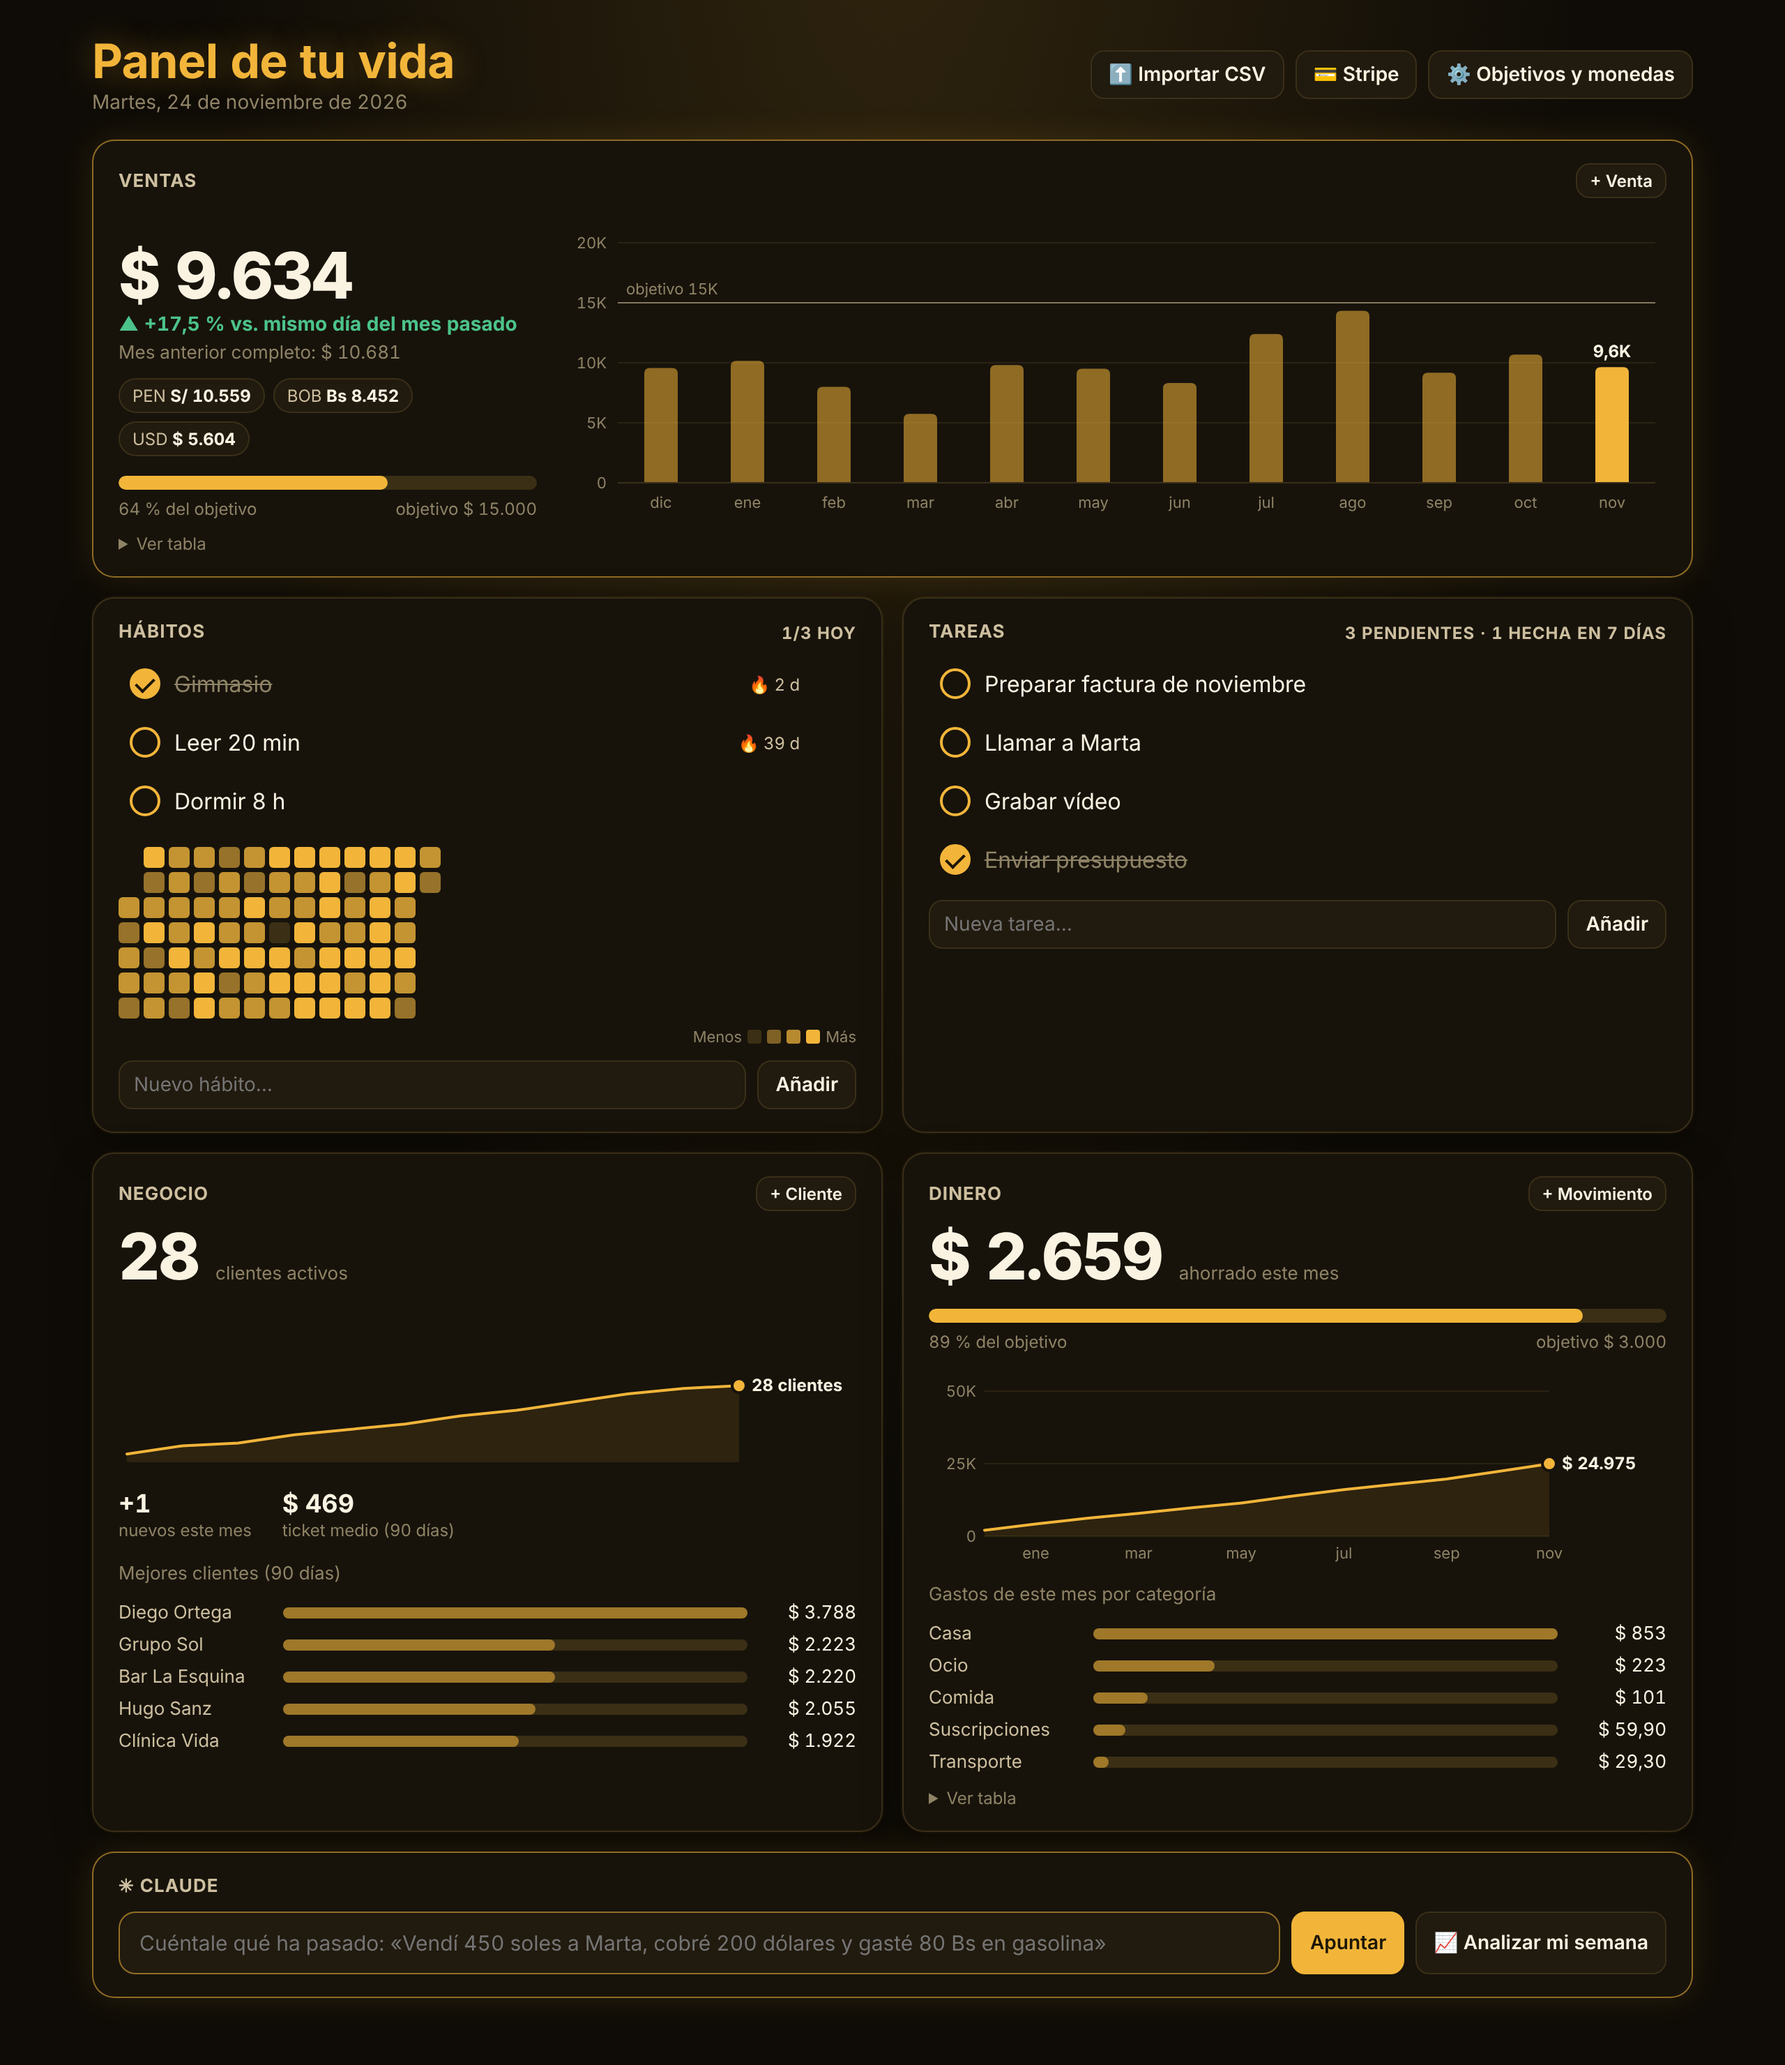
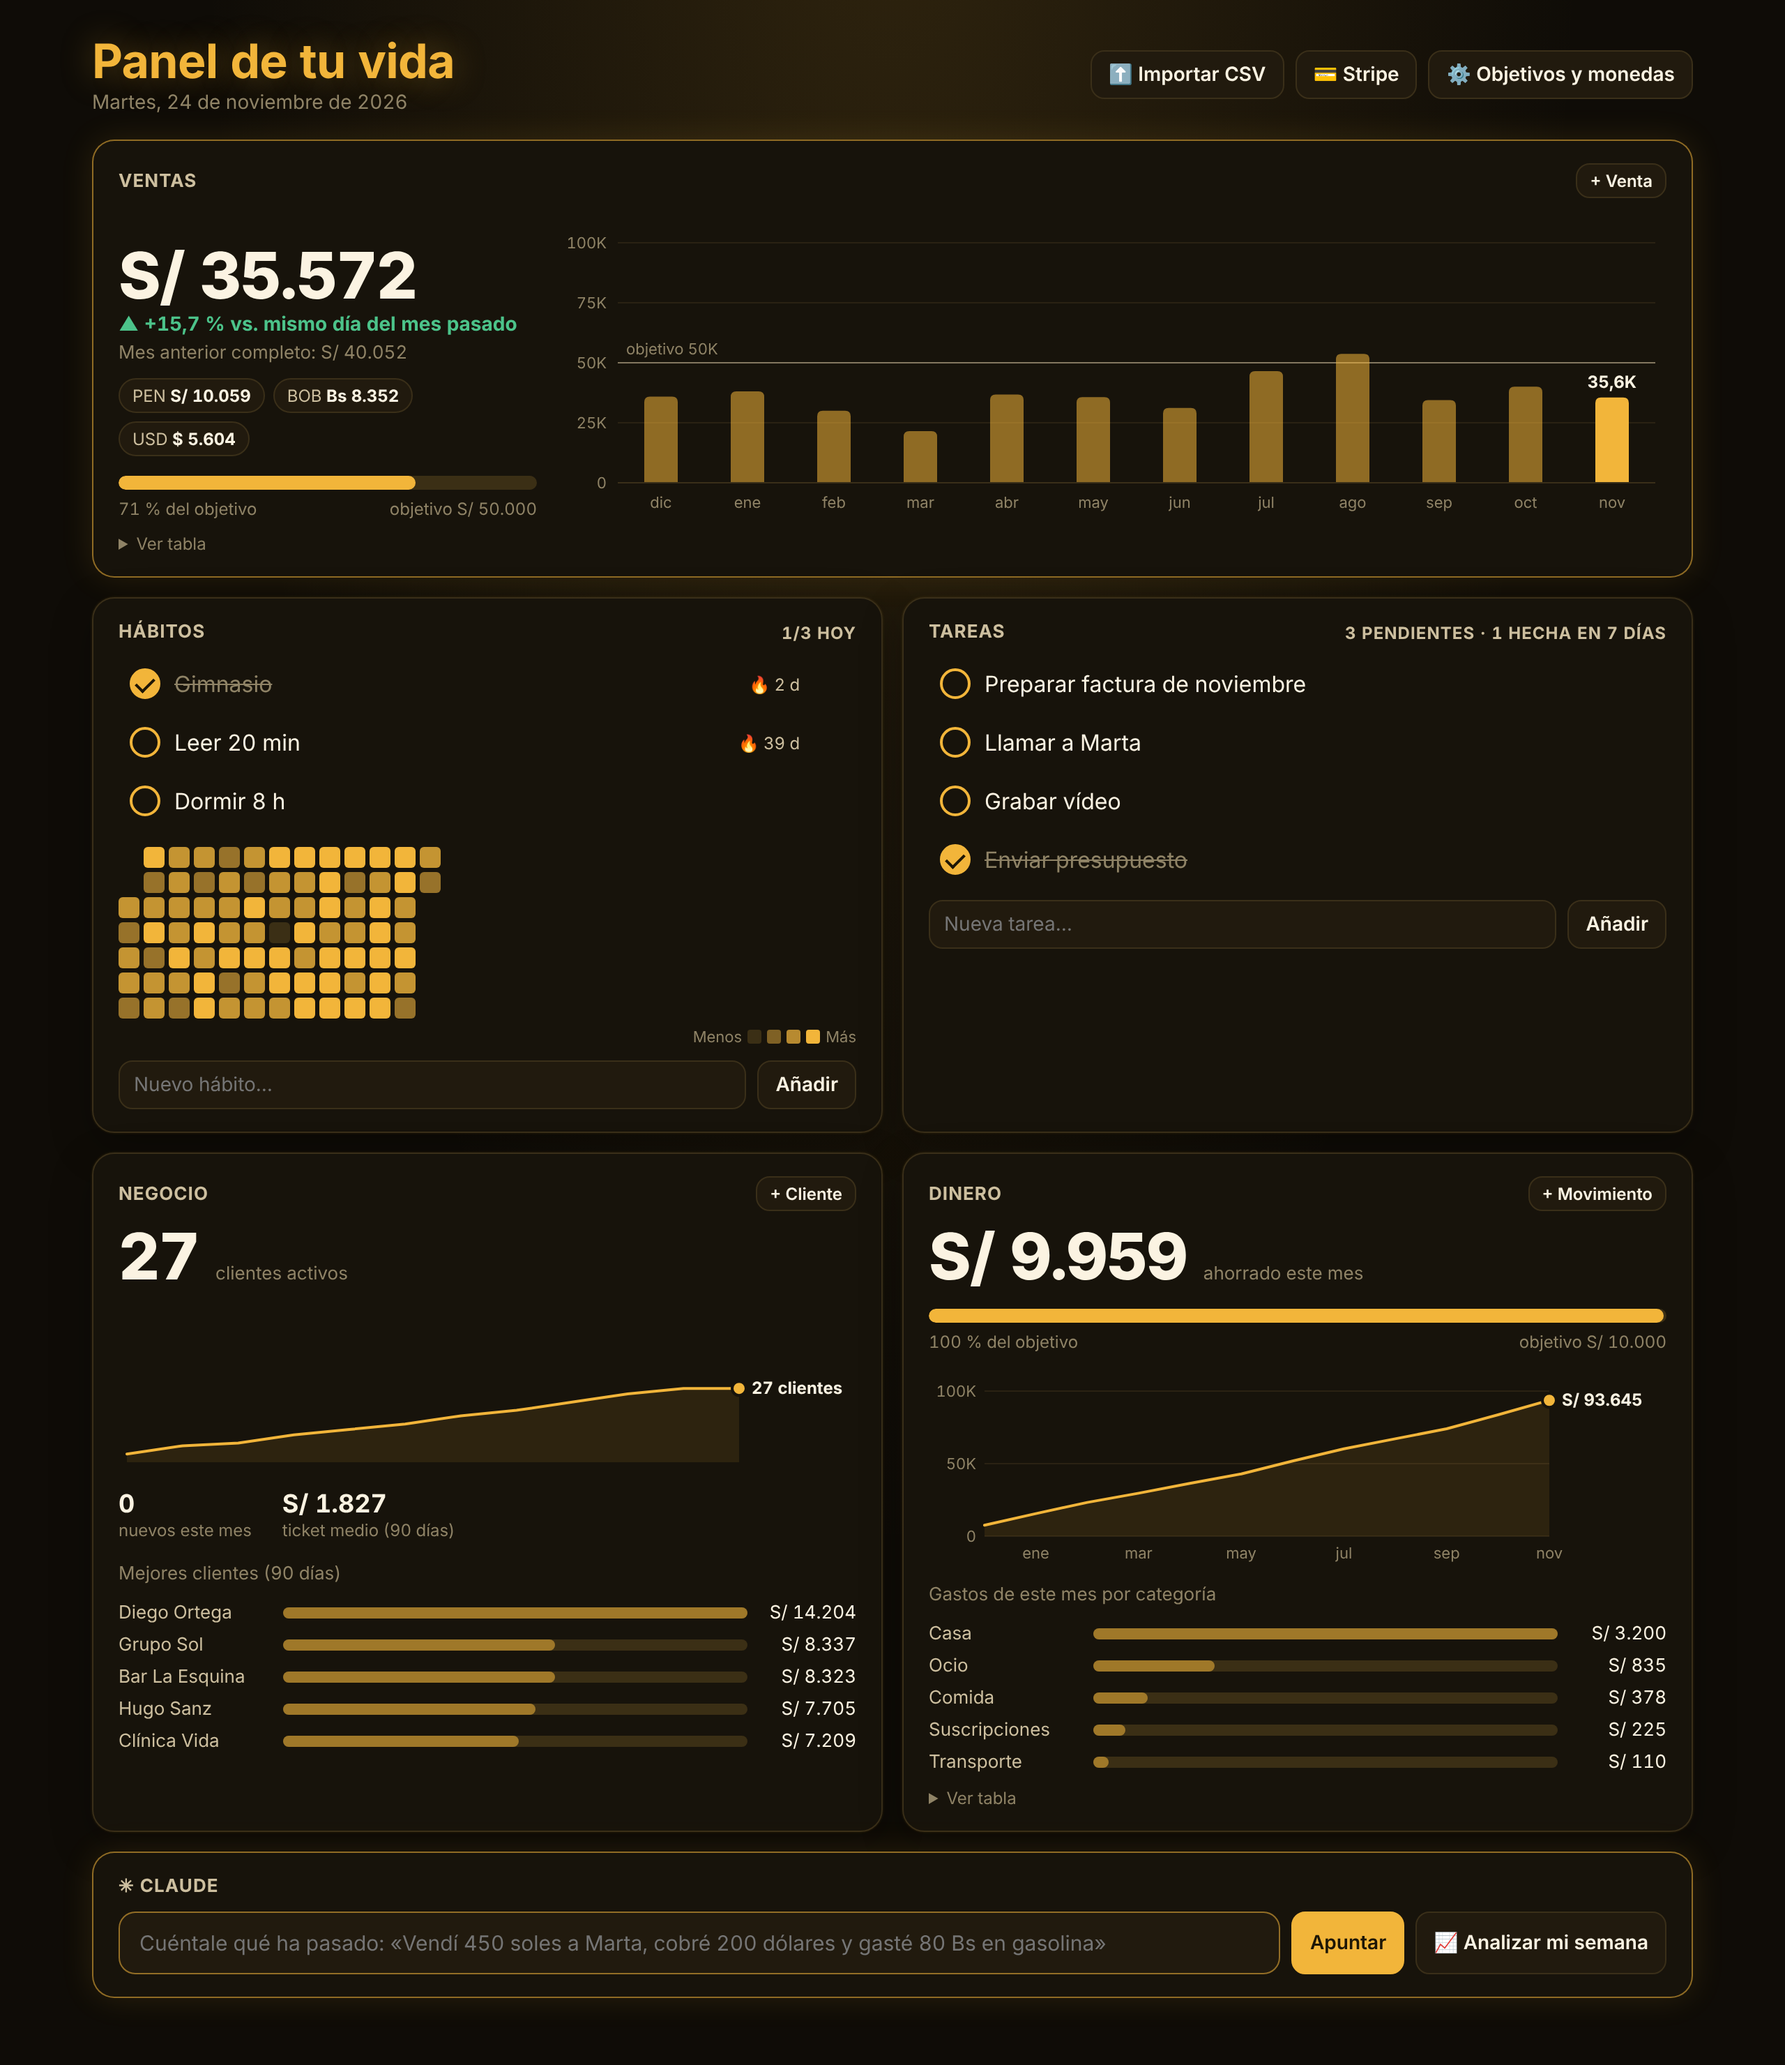
Panel de tu vida: soles (PEN) como moneda principal por defecto
Claude-Session: https://claude.ai/code/session_01Tj5KzrRhTnT14C2JLgZNyN

diff --git a/proyectos-claude/03-panel-de-tu-vida/panel/db.py b/proyectos-claude/03-panel-de-tu-vida/panel/db.py
@@ -34,7 +34,7 @@ CREATE TABLE IF NOT EXISTS settings (key TEXT PRIMARY KEY, value TEXT);
 # Monedas: cuántas unidades equivalen a 1 dólar (se pueden editar o actualizar desde internet)
 CURRENCIES = {"USD": "$", "PEN": "S/", "BOB": "Bs", "EUR": "€"}
 DEFAULT_RATES = {"USD": 1.0, "PEN": 3.75, "BOB": 6.96, "EUR": 0.92}
-DEFAULTS = {"sales_goal_month": "15000", "savings_goal_month": "3000", "base_currency": "USD",
+DEFAULTS = {"sales_goal_month": "50000", "savings_goal_month": "10000", "base_currency": "PEN",
             "rates": json.dumps(DEFAULT_RATES), "rates_updated": ""}
 _migrated = False
 

diff --git a/proyectos-claude/03-panel-de-tu-vida/README.md b/proyectos-claude/03-panel-de-tu-vida/README.md
@@ -45,7 +45,8 @@ Cada venta o movimiento se guarda en **su moneda** (USD `$`, PEN `S/`, BOB `Bs`,
 **convierte todo a tu moneda principal** para los totales y gráficos. Debajo de las ventas del mes ves el
 desglose por moneda, y en las listas cada importe aparece en su moneda original.
 
-- Elige la moneda principal en ⚙ (al cambiarla, los objetivos se convierten solos).
+- La moneda principal es **el sol (S/)** desde el principio, con objetivos de S/ 50.000 en ventas y S/ 10.000 de ahorro
+  al mes. Puedes cambiar ambas cosas en ⚙ (al cambiar de moneda, los objetivos se convierten solos).
 - Los tipos de cambio (unidades por 1 dólar) se editan a mano o con **🌐 Actualizar de internet**
   (open.er-api.com, gratis y sin clave). Por defecto: 1 $ = 3,75 S/ = 6,96 Bs = 0,92 €.
 - A Claude puedes hablarle en cualquier moneda: «soles», «S/», «bolivianos», «Bs», «dólares», «$».
